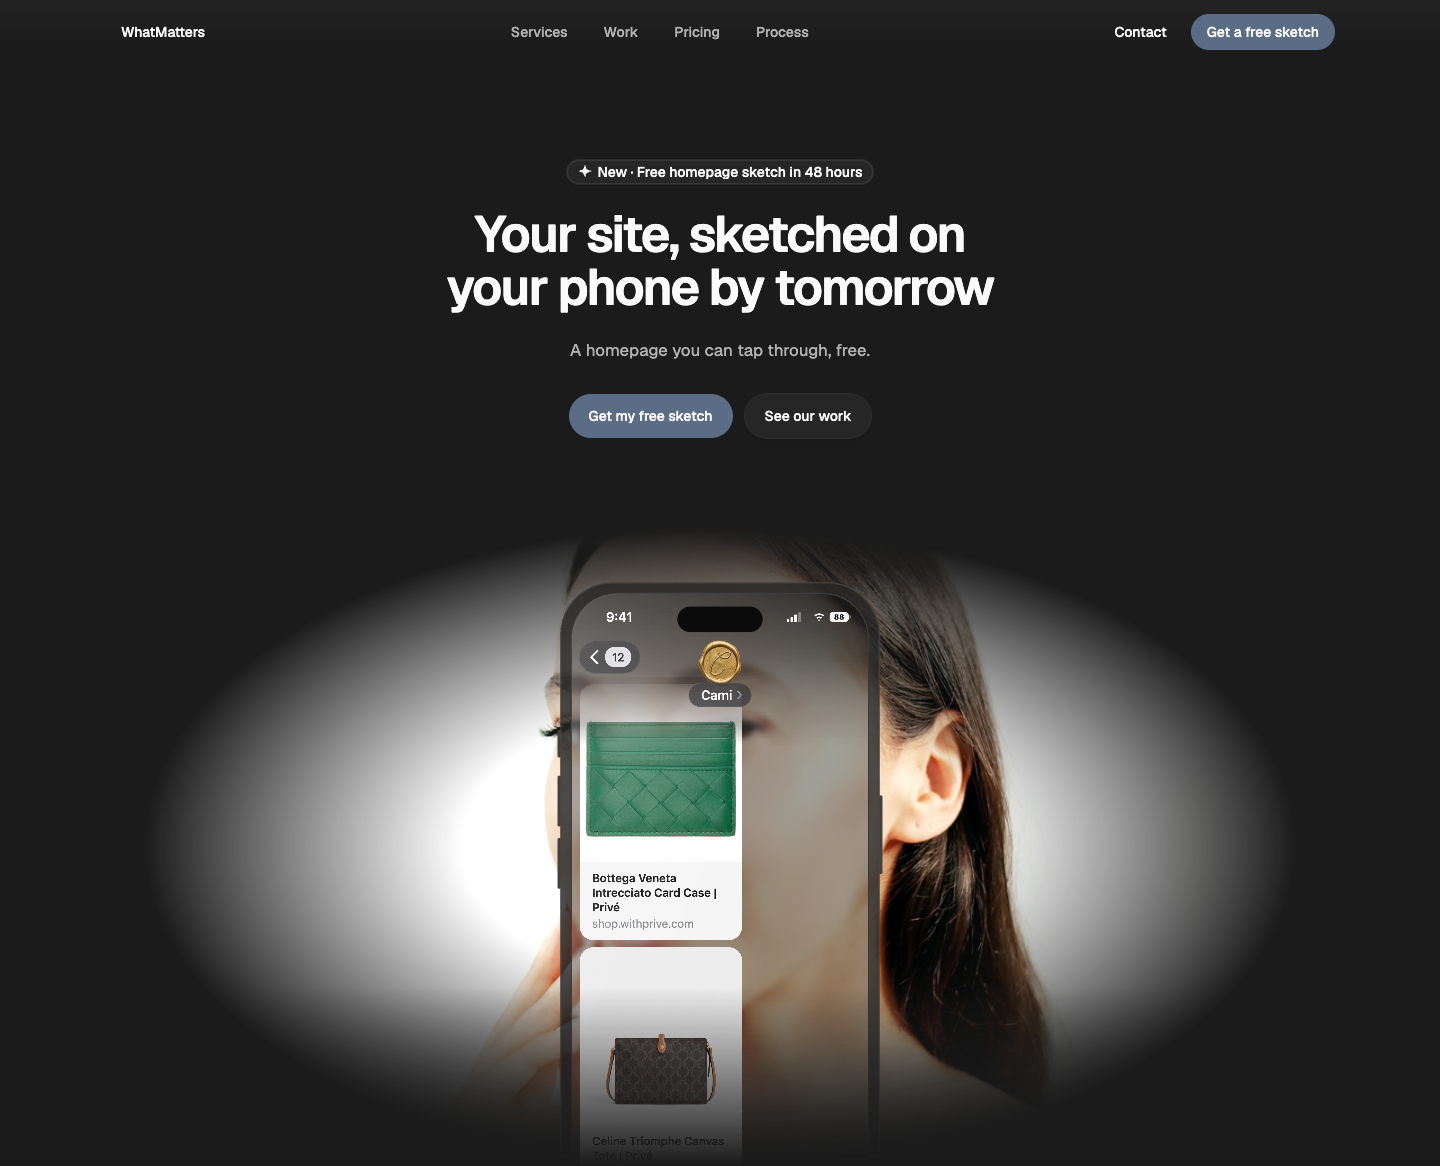
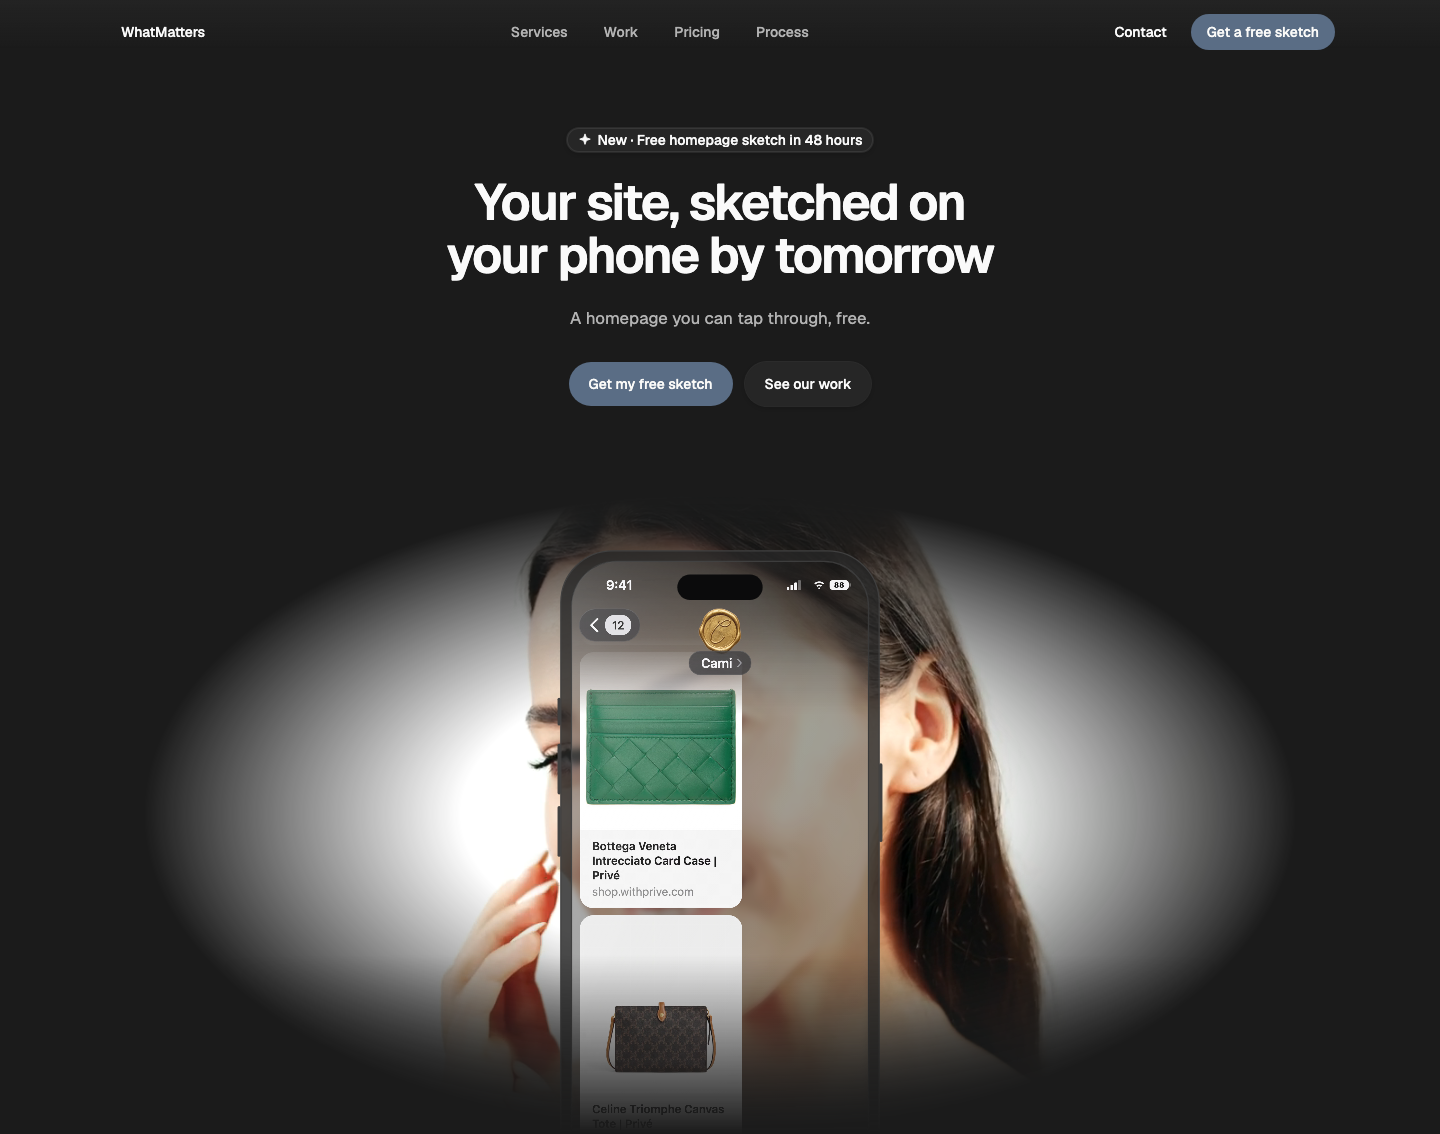
Hero — Phone Center: top padding 48 / 64 (was 48 / 96), per the patterns' spacing rule; the fading stage stays the bottom edge

diff --git a/patterns/hero/phone-center/HeroPhoneCenter.tsx b/patterns/hero/phone-center/HeroPhoneCenter.tsx
@@ -55,8 +55,8 @@ export interface HeroPhoneCenterProps {
 const rootClasses = "relative w-full overflow-x-clip";
 /** The section lays its content on the WMDS page grid. */
 const sectionClasses = "grid-page relative !py-0";
-/** Centred copy. Nav→eyebrow 48 / 96. */
-const copyClasses = "relative z-10 col-span-full flex flex-col items-center pt-12 text-center lg:pt-24";
+/** Centred copy. Section padding 48 / 64 at the top; the fading stage is the bottom edge. */
+const copyClasses = "relative z-10 col-span-full flex flex-col items-center pt-12 text-center md:pt-16";
 /**
  * A narrow H1, like the phone it sits over: WMDS type-display-2 (fluid 32px → 50px), kept to about 11em
  * so a short headline sets in 2–3 lines, set tight (-0.035em, line height 1.05) like a display line.

diff --git a/patterns/hero/phone-center/README.md b/patterns/hero/phone-center/README.md
@@ -71,7 +71,7 @@ The pattern follows the theme, but the media doesn't: footage shot on a white st
 
 ## Spacing
 
-Nav→eyebrow 48 / 96 (phone / desktop), headline→subhead 24, subhead→CTAs 32, CTAs→stage 40 / 64. The stage is `clamp(26rem, 52vw, 40rem)` tall and fades out over its last 28%.
+Section padding 48 / 64 at the top (phone / tablet and up; the fading stage is the bottom edge), headline→subhead 24, subhead→CTAs 32, CTAs→stage 40 / 64. The stage is `clamp(26rem, 52vw, 40rem)` tall and fades out over its last 28%.
 
 ## WMDS-GAPs
 
